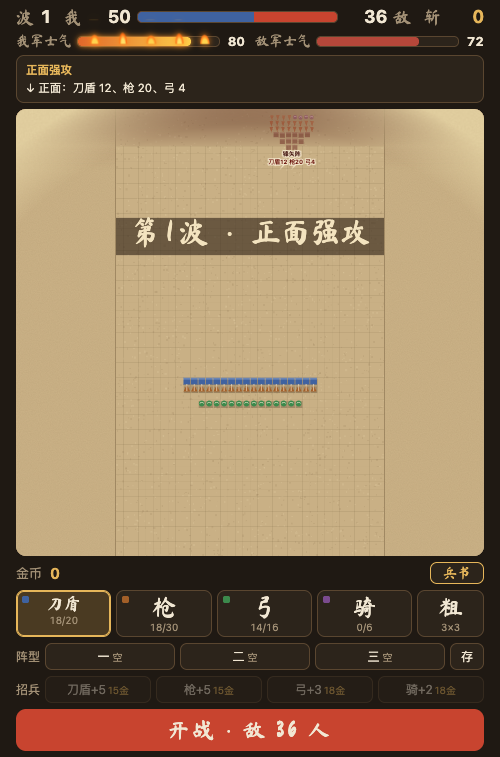
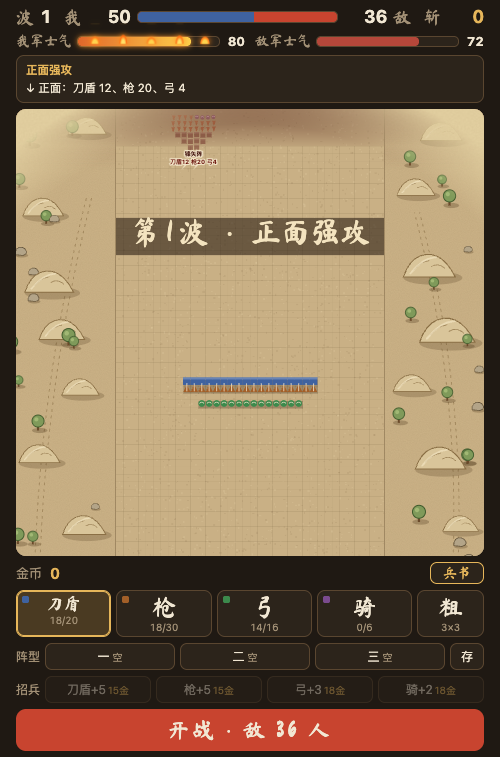
v36：沙盘外的沙地上加山包、树、石头、营帐和车辙；桌上地图改成毛边

diff --git a/index.html b/index.html
@@ -176,9 +176,9 @@ footer { display: flex; flex-direction: column; gap: 6px; }
   </div>
   <div id="intel" hidden></div>
   <div id="stage">
-    <div id="ground"><div id="terrain"></div><canvas id="cv"></canvas></div>
+    <div id="ground"><div id="terrain"><svg viewBox="-270 -270 900 1140" preserveAspectRatio="none" style="position:absolute;left:0;top:0;width:100%;height:100%" aria-hidden="true"><path d="M-110 640 Q-105 380 -40 120" fill="none" stroke="#8a6f45" stroke-width="1.4" stroke-dasharray="3 6" stroke-linecap="round" opacity=".55"/><path d="M-103 640 Q-98 380 -33 120" fill="none" stroke="#8a6f45" stroke-width="1.4" stroke-dasharray="3 6" stroke-linecap="round" opacity=".55"/><path d="M450 640 Q465 390 400 140" fill="none" stroke="#8a6f45" stroke-width="1.4" stroke-dasharray="3 6" stroke-linecap="round" opacity=".55"/><path d="M457 640 Q472 390 407 140" fill="none" stroke="#8a6f45" stroke-width="1.4" stroke-dasharray="3 6" stroke-linecap="round" opacity=".55"/><path d="M60 690 Q180 725 300 760" fill="none" stroke="#8a6f45" stroke-width="1.4" stroke-dasharray="3 6" stroke-linecap="round" opacity=".55"/><path d="M67 690 Q187 725 307 760" fill="none" stroke="#8a6f45" stroke-width="1.4" stroke-dasharray="3 6" stroke-linecap="round" opacity=".55"/><g transform="translate(20,-96) scale(1.20)"><ellipse cx="1" cy="1" rx="5" ry="1.6" fill="rgba(70,48,20,.3)"/><path d="M0 0 V-22" stroke="#5a4326" stroke-width="1.4" stroke-linecap="round"/><path d="M0 -22 h11 l-3 4 3 4 h-11 z" fill="#a33a28" stroke="#5a4326" stroke-width=".8"/></g><g transform="translate(180,-96) scale(1.20)"><ellipse cx="1" cy="1" rx="5" ry="1.6" fill="rgba(70,48,20,.3)"/><path d="M0 0 V-22" stroke="#5a4326" stroke-width="1.4" stroke-linecap="round"/><path d="M0 -22 h11 l-3 4 3 4 h-11 z" fill="#a33a28" stroke="#5a4326" stroke-width=".8"/></g><g transform="translate(340,-96) scale(1.20)"><ellipse cx="1" cy="1" rx="5" ry="1.6" fill="rgba(70,48,20,.3)"/><path d="M0 0 V-22" stroke="#5a4326" stroke-width="1.4" stroke-linecap="round"/><path d="M0 -22 h11 l-3 4 3 4 h-11 z" fill="#a33a28" stroke="#5a4326" stroke-width=".8"/></g><g transform="translate(93,-66) scale(1.05)"><ellipse cx="2" cy="10" rx="15" ry="4" fill="rgba(70,48,20,.3)"/><path d="M-13 9 L0 -10 L13 9 Z" fill="#efe2c2" stroke="#5a4326" stroke-width="1.2" stroke-linejoin="round"/><path d="M0 -10 L-4 9 L4 9 Z" fill="#c96a52"/><path d="M0 -10 V-19" stroke="#5a4326" stroke-width="1.2"/><path d="M0 -19 h8 l-2.5 3 2.5 3 h-8 z" fill="#a33a28" stroke="#5a4326" stroke-width=".8"/></g><g transform="translate(262,-63) scale(1.02)"><ellipse cx="2" cy="10" rx="15" ry="4" fill="rgba(70,48,20,.3)"/><path d="M-13 9 L0 -10 L13 9 Z" fill="#efe2c2" stroke="#5a4326" stroke-width="1.2" stroke-linejoin="round"/><path d="M0 -10 L-4 9 L4 9 Z" fill="#c96a52"/><path d="M0 -10 V-19" stroke="#5a4326" stroke-width="1.2"/><path d="M0 -19 h8 l-2.5 3 2.5 3 h-8 z" fill="#a33a28" stroke="#5a4326" stroke-width=".8"/></g><g transform="translate(157,-56) scale(1.13)"><ellipse cx="2" cy="10" rx="15" ry="4" fill="rgba(70,48,20,.3)"/><path d="M-13 9 L0 -10 L13 9 Z" fill="#efe2c2" stroke="#5a4326" stroke-width="1.2" stroke-linejoin="round"/><path d="M0 -10 L-4 9 L4 9 Z" fill="#c96a52"/><path d="M0 -10 V-19" stroke="#5a4326" stroke-width="1.2"/><path d="M0 -19 h8 l-2.5 3 2.5 3 h-8 z" fill="#a33a28" stroke="#5a4326" stroke-width=".8"/></g><g transform="translate(212,-53) scale(1.05)"><ellipse cx="2" cy="10" rx="15" ry="4" fill="rgba(70,48,20,.3)"/><path d="M-13 9 L0 -10 L13 9 Z" fill="#efe2c2" stroke="#5a4326" stroke-width="1.2" stroke-linejoin="round"/><path d="M0 -10 L-4 9 L4 9 Z" fill="#c96a52"/><path d="M0 -10 V-19" stroke="#5a4326" stroke-width="1.2"/><path d="M0 -19 h8 l-2.5 3 2.5 3 h-8 z" fill="#a33a28" stroke="#5a4326" stroke-width=".8"/></g><g transform="translate(320,-52) scale(0.97)"><ellipse cx="2" cy="10" rx="15" ry="4" fill="rgba(70,48,20,.3)"/><path d="M-13 9 L0 -10 L13 9 Z" fill="#efe2c2" stroke="#5a4326" stroke-width="1.2" stroke-linejoin="round"/><path d="M0 -10 L-4 9 L4 9 Z" fill="#c96a52"/><path d="M0 -10 V-19" stroke="#5a4326" stroke-width="1.2"/><path d="M0 -19 h8 l-2.5 3 2.5 3 h-8 z" fill="#a33a28" stroke="#5a4326" stroke-width=".8"/></g><g transform="translate(38,-49) scale(1.11)"><ellipse cx="2" cy="10" rx="15" ry="4" fill="rgba(70,48,20,.3)"/><path d="M-13 9 L0 -10 L13 9 Z" fill="#efe2c2" stroke="#5a4326" stroke-width="1.2" stroke-linejoin="round"/><path d="M0 -10 L-4 9 L4 9 Z" fill="#c96a52"/><path d="M0 -10 V-19" stroke="#5a4326" stroke-width="1.2"/><path d="M0 -19 h8 l-2.5 3 2.5 3 h-8 z" fill="#a33a28" stroke="#5a4326" stroke-width=".8"/></g><g transform="translate(426,-24) scale(1.02)"><ellipse cx="2" cy="8" rx="9" ry="3" fill="rgba(70,48,20,.28)"/><rect x="-1.2" y="1" width="2.4" height="7" fill="#6a4a2a"/><circle cx="0" cy="-3" r="7" fill="#7f9a5a" stroke="#3f5a2c" stroke-width="1.1"/><circle cx="-2" cy="-5" r="2.4" fill="#a9c07a" opacity=".8"/></g><g transform="translate(505,-17) scale(1.18)"><ellipse cx="2" cy="8" rx="9" ry="3" fill="rgba(70,48,20,.28)"/><rect x="-1.2" y="1" width="2.4" height="7" fill="#6a4a2a"/><circle cx="0" cy="-3" r="7" fill="#7f9a5a" stroke="#3f5a2c" stroke-width="1.1"/><circle cx="-2" cy="-5" r="2.4" fill="#a9c07a" opacity=".8"/></g><g transform="translate(-68,4) scale(0.99)"><ellipse cx="2" cy="8" rx="9" ry="3" fill="rgba(70,48,20,.28)"/><rect x="-1.2" y="1" width="2.4" height="7" fill="#6a4a2a"/><circle cx="0" cy="-3" r="7" fill="#7f9a5a" stroke="#3f5a2c" stroke-width="1.1"/><circle cx="-2" cy="-5" r="2.4" fill="#a9c07a" opacity=".8"/></g><g transform="translate(506,25) scale(1.18)"><ellipse cx="2" cy="8" rx="9" ry="3" fill="rgba(70,48,20,.28)"/><rect x="-1.2" y="1" width="2.4" height="7" fill="#6a4a2a"/><circle cx="0" cy="-3" r="7" fill="#7f9a5a" stroke="#3f5a2c" stroke-width="1.1"/><circle cx="-2" cy="-5" r="2.4" fill="#a9c07a" opacity=".8"/></g><g transform="translate(-39,28) scale(0.86)"><ellipse cx="4" cy="9" rx="34" ry="8" fill="rgba(70,48,20,.22)"/><path d="M-30 8 Q-22 -16 -4 -18 Q16 -20 30 8 Z" fill="#d9c59a" stroke="#8a6f45" stroke-width="1.2"/><path d="M-18 0 Q-10 -10 0 -11 M2 -4 Q10 -9 18 -2" fill="none" stroke="#8a6f45" stroke-width="1" stroke-linecap="round" opacity=".7"/><path d="M-22 4 Q-8 -14 8 -15" fill="none" stroke="#f1e3c0" stroke-width="2" stroke-linecap="round" opacity=".7"/></g><g transform="translate(-59,28) scale(1.15)"><ellipse cx="2" cy="8" rx="9" ry="3" fill="rgba(70,48,20,.28)"/><rect x="-1.2" y="1" width="2.4" height="7" fill="#6a4a2a"/><circle cx="0" cy="-3" r="7" fill="#7f9a5a" stroke="#3f5a2c" stroke-width="1.1"/><circle cx="-2" cy="-5" r="2.4" fill="#a9c07a" opacity=".8"/></g><g transform="translate(436,36) scale(0.93)"><ellipse cx="4" cy="9" rx="34" ry="8" fill="rgba(70,48,20,.22)"/><path d="M-30 8 Q-22 -16 -4 -18 Q16 -20 30 8 Z" fill="#d9c59a" stroke="#8a6f45" stroke-width="1.2"/><path d="M-18 0 Q-10 -10 0 -11 M2 -4 Q10 -9 18 -2" fill="none" stroke="#8a6f45" stroke-width="1" stroke-linecap="round" opacity=".7"/><path d="M-22 4 Q-8 -14 8 -15" fill="none" stroke="#f1e3c0" stroke-width="2" stroke-linecap="round" opacity=".7"/></g><g transform="translate(-116,40) scale(1.30)"><ellipse cx="2" cy="8" rx="9" ry="3" fill="rgba(70,48,20,.28)"/><rect x="-1.2" y="1" width="2.4" height="7" fill="#6a4a2a"/><circle cx="0" cy="-3" r="7" fill="#7f9a5a" stroke="#3f5a2c" stroke-width="1.1"/><circle cx="-2" cy="-5" r="2.4" fill="#a9c07a" opacity=".8"/></g><g transform="translate(394,68) scale(1.09)"><ellipse cx="2" cy="8" rx="9" ry="3" fill="rgba(70,48,20,.28)"/><rect x="-1.2" y="1" width="2.4" height="7" fill="#6a4a2a"/><circle cx="0" cy="-3" r="7" fill="#7f9a5a" stroke="#3f5a2c" stroke-width="1.1"/><circle cx="-2" cy="-5" r="2.4" fill="#a9c07a" opacity=".8"/></g><g transform="translate(437,98) scale(0.85)"><ellipse cx="2" cy="8" rx="9" ry="3" fill="rgba(70,48,20,.28)"/><rect x="-1.2" y="1" width="2.4" height="7" fill="#6a4a2a"/><circle cx="0" cy="-3" r="7" fill="#7f9a5a" stroke="#3f5a2c" stroke-width="1.1"/><circle cx="-2" cy="-5" r="2.4" fill="#a9c07a" opacity=".8"/></g><g transform="translate(-130,98) scale(1.06)"><ellipse cx="2" cy="8" rx="9" ry="3" fill="rgba(70,48,20,.28)"/><rect x="-1.2" y="1" width="2.4" height="7" fill="#6a4a2a"/><circle cx="0" cy="-3" r="7" fill="#7f9a5a" stroke="#3f5a2c" stroke-width="1.1"/><circle cx="-2" cy="-5" r="2.4" fill="#a9c07a" opacity=".8"/></g><g transform="translate(402,110) scale(0.85)"><ellipse cx="4" cy="9" rx="34" ry="8" fill="rgba(70,48,20,.22)"/><path d="M-30 8 Q-22 -16 -4 -18 Q16 -20 30 8 Z" fill="#d9c59a" stroke="#8a6f45" stroke-width="1.2"/><path d="M-18 0 Q-10 -10 0 -11 M2 -4 Q10 -9 18 -2" fill="none" stroke="#8a6f45" stroke-width="1" stroke-linecap="round" opacity=".7"/><path d="M-22 4 Q-8 -14 8 -15" fill="none" stroke="#f1e3c0" stroke-width="2" stroke-linecap="round" opacity=".7"/></g><g transform="translate(447,121) scale(1.17)"><ellipse cx="2" cy="8" rx="9" ry="3" fill="rgba(70,48,20,.28)"/><rect x="-1.2" y="1" width="2.4" height="7" fill="#6a4a2a"/><circle cx="0" cy="-3" r="7" fill="#7f9a5a" stroke="#3f5a2c" stroke-width="1.1"/><circle cx="-2" cy="-5" r="2.4" fill="#a9c07a" opacity=".8"/></g><g transform="translate(-148,131) scale(0.97)"><ellipse cx="2" cy="8" rx="9" ry="3" fill="rgba(70,48,20,.28)"/><rect x="-1.2" y="1" width="2.4" height="7" fill="#6a4a2a"/><circle cx="0" cy="-3" r="7" fill="#7f9a5a" stroke="#3f5a2c" stroke-width="1.1"/><circle cx="-2" cy="-5" r="2.4" fill="#a9c07a" opacity=".8"/></g><g transform="translate(-98,137) scale(0.91)"><ellipse cx="4" cy="9" rx="34" ry="8" fill="rgba(70,48,20,.22)"/><path d="M-30 8 Q-22 -16 -4 -18 Q16 -20 30 8 Z" fill="#d9c59a" stroke="#8a6f45" stroke-width="1.2"/><path d="M-18 0 Q-10 -10 0 -11 M2 -4 Q10 -9 18 -2" fill="none" stroke="#8a6f45" stroke-width="1" stroke-linecap="round" opacity=".7"/><path d="M-22 4 Q-8 -14 8 -15" fill="none" stroke="#f1e3c0" stroke-width="2" stroke-linecap="round" opacity=".7"/></g><g transform="translate(-94,147) scale(0.99)"><ellipse cx="2" cy="8" rx="9" ry="3" fill="rgba(70,48,20,.28)"/><rect x="-1.2" y="1" width="2.4" height="7" fill="#6a4a2a"/><circle cx="0" cy="-3" r="7" fill="#7f9a5a" stroke="#3f5a2c" stroke-width="1.1"/><circle cx="-2" cy="-5" r="2.4" fill="#a9c07a" opacity=".8"/></g><g transform="translate(-83,148) scale(0.92)"><ellipse cx="1" cy="5" rx="8" ry="2.6" fill="rgba(70,48,20,.26)"/><path d="M-7 4 Q-8 -3 -2 -5 Q5 -6 7 0 Q8 4 2 5 Z" fill="#b3a488" stroke="#6a5a40" stroke-width="1"/></g><g transform="translate(472,189) scale(0.80)"><ellipse cx="1" cy="5" rx="8" ry="2.6" fill="rgba(70,48,20,.26)"/><path d="M-7 4 Q-8 -3 -2 -5 Q5 -6 7 0 Q8 4 2 5 Z" fill="#b3a488" stroke="#6a5a40" stroke-width="1"/></g><g transform="translate(-128,192) scale(1.08)"><ellipse cx="1" cy="5" rx="8" ry="2.6" fill="rgba(70,48,20,.26)"/><path d="M-7 4 Q-8 -3 -2 -5 Q5 -6 7 0 Q8 4 2 5 Z" fill="#b3a488" stroke="#6a5a40" stroke-width="1"/></g><g transform="translate(420,217) scale(1.16)"><ellipse cx="4" cy="9" rx="34" ry="8" fill="rgba(70,48,20,.22)"/><path d="M-30 8 Q-22 -16 -4 -18 Q16 -20 30 8 Z" fill="#d9c59a" stroke="#8a6f45" stroke-width="1.2"/><path d="M-18 0 Q-10 -10 0 -11 M2 -4 Q10 -9 18 -2" fill="none" stroke="#8a6f45" stroke-width="1" stroke-linecap="round" opacity=".7"/><path d="M-22 4 Q-8 -14 8 -15" fill="none" stroke="#f1e3c0" stroke-width="2" stroke-linecap="round" opacity=".7"/></g><g transform="translate(-111,219) scale(0.92)"><ellipse cx="1" cy="5" rx="8" ry="2.6" fill="rgba(70,48,20,.26)"/><path d="M-7 4 Q-8 -3 -2 -5 Q5 -6 7 0 Q8 4 2 5 Z" fill="#b3a488" stroke="#6a5a40" stroke-width="1"/></g><g transform="translate(426,236) scale(0.91)"><ellipse cx="2" cy="8" rx="9" ry="3" fill="rgba(70,48,20,.28)"/><rect x="-1.2" y="1" width="2.4" height="7" fill="#6a4a2a"/><circle cx="0" cy="-3" r="7" fill="#7f9a5a" stroke="#3f5a2c" stroke-width="1.1"/><circle cx="-2" cy="-5" r="2.4" fill="#a9c07a" opacity=".8"/></g><g transform="translate(-90,238) scale(1.09)"><ellipse cx="4" cy="9" rx="34" ry="8" fill="rgba(70,48,20,.22)"/><path d="M-30 8 Q-22 -16 -4 -18 Q16 -20 30 8 Z" fill="#d9c59a" stroke="#8a6f45" stroke-width="1.2"/><path d="M-18 0 Q-10 -10 0 -11 M2 -4 Q10 -9 18 -2" fill="none" stroke="#8a6f45" stroke-width="1" stroke-linecap="round" opacity=".7"/><path d="M-22 4 Q-8 -14 8 -15" fill="none" stroke="#f1e3c0" stroke-width="2" stroke-linecap="round" opacity=".7"/></g><g transform="translate(-111,254) scale(1.03)"><ellipse cx="1" cy="5" rx="8" ry="2.6" fill="rgba(70,48,20,.26)"/><path d="M-7 4 Q-8 -3 -2 -5 Q5 -6 7 0 Q8 4 2 5 Z" fill="#b3a488" stroke="#6a5a40" stroke-width="1"/></g><g transform="translate(395,277) scale(1.02)"><ellipse cx="2" cy="8" rx="9" ry="3" fill="rgba(70,48,20,.28)"/><rect x="-1.2" y="1" width="2.4" height="7" fill="#6a4a2a"/><circle cx="0" cy="-3" r="7" fill="#7f9a5a" stroke="#3f5a2c" stroke-width="1.1"/><circle cx="-2" cy="-5" r="2.4" fill="#a9c07a" opacity=".8"/></g><g transform="translate(-73,302) scale(1.02)"><ellipse cx="4" cy="9" rx="34" ry="8" fill="rgba(70,48,20,.22)"/><path d="M-30 8 Q-22 -16 -4 -18 Q16 -20 30 8 Z" fill="#d9c59a" stroke="#8a6f45" stroke-width="1.2"/><path d="M-18 0 Q-10 -10 0 -11 M2 -4 Q10 -9 18 -2" fill="none" stroke="#8a6f45" stroke-width="1" stroke-linecap="round" opacity=".7"/><path d="M-22 4 Q-8 -14 8 -15" fill="none" stroke="#f1e3c0" stroke-width="2" stroke-linecap="round" opacity=".7"/></g><g transform="translate(444,304) scale(1.24)"><ellipse cx="4" cy="9" rx="34" ry="8" fill="rgba(70,48,20,.22)"/><path d="M-30 8 Q-22 -16 -4 -18 Q16 -20 30 8 Z" fill="#d9c59a" stroke="#8a6f45" stroke-width="1.2"/><path d="M-18 0 Q-10 -10 0 -11 M2 -4 Q10 -9 18 -2" fill="none" stroke="#8a6f45" stroke-width="1" stroke-linecap="round" opacity=".7"/><path d="M-22 4 Q-8 -14 8 -15" fill="none" stroke="#f1e3c0" stroke-width="2" stroke-linecap="round" opacity=".7"/></g><g transform="translate(-64,308) scale(1.25)"><ellipse cx="2" cy="8" rx="9" ry="3" fill="rgba(70,48,20,.28)"/><rect x="-1.2" y="1" width="2.4" height="7" fill="#6a4a2a"/><circle cx="0" cy="-3" r="7" fill="#7f9a5a" stroke="#3f5a2c" stroke-width="1.1"/><circle cx="-2" cy="-5" r="2.4" fill="#a9c07a" opacity=".8"/></g><g transform="translate(471,312) scale(0.90)"><ellipse cx="2" cy="8" rx="9" ry="3" fill="rgba(70,48,20,.28)"/><rect x="-1.2" y="1" width="2.4" height="7" fill="#6a4a2a"/><circle cx="0" cy="-3" r="7" fill="#7f9a5a" stroke="#3f5a2c" stroke-width="1.1"/><circle cx="-2" cy="-5" r="2.4" fill="#a9c07a" opacity=".8"/></g><g transform="translate(-57,315) scale(0.91)"><ellipse cx="2" cy="8" rx="9" ry="3" fill="rgba(70,48,20,.28)"/><rect x="-1.2" y="1" width="2.4" height="7" fill="#6a4a2a"/><circle cx="0" cy="-3" r="7" fill="#7f9a5a" stroke="#3f5a2c" stroke-width="1.1"/><circle cx="-2" cy="-5" r="2.4" fill="#a9c07a" opacity=".8"/></g><g transform="translate(-141,317) scale(1.25)"><ellipse cx="2" cy="8" rx="9" ry="3" fill="rgba(70,48,20,.28)"/><rect x="-1.2" y="1" width="2.4" height="7" fill="#6a4a2a"/><circle cx="0" cy="-3" r="7" fill="#7f9a5a" stroke="#3f5a2c" stroke-width="1.1"/><circle cx="-2" cy="-5" r="2.4" fill="#a9c07a" opacity=".8"/></g><g transform="translate(487,350) scale(0.88)"><ellipse cx="1" cy="5" rx="8" ry="2.6" fill="rgba(70,48,20,.26)"/><path d="M-7 4 Q-8 -3 -2 -5 Q5 -6 7 0 Q8 4 2 5 Z" fill="#b3a488" stroke="#6a5a40" stroke-width="1"/></g><g transform="translate(-131,367) scale(0.83)"><ellipse cx="2" cy="8" rx="9" ry="3" fill="rgba(70,48,20,.28)"/><rect x="-1.2" y="1" width="2.4" height="7" fill="#6a4a2a"/><circle cx="0" cy="-3" r="7" fill="#7f9a5a" stroke="#3f5a2c" stroke-width="1.1"/><circle cx="-2" cy="-5" r="2.4" fill="#a9c07a" opacity=".8"/></g><g transform="translate(397,373) scale(0.86)"><ellipse cx="4" cy="9" rx="34" ry="8" fill="rgba(70,48,20,.22)"/><path d="M-30 8 Q-22 -16 -4 -18 Q16 -20 30 8 Z" fill="#d9c59a" stroke="#8a6f45" stroke-width="1.2"/><path d="M-18 0 Q-10 -10 0 -11 M2 -4 Q10 -9 18 -2" fill="none" stroke="#8a6f45" stroke-width="1" stroke-linecap="round" opacity=".7"/><path d="M-22 4 Q-8 -14 8 -15" fill="none" stroke="#f1e3c0" stroke-width="2" stroke-linecap="round" opacity=".7"/></g><g transform="translate(-48,378) scale(0.84)"><ellipse cx="4" cy="9" rx="34" ry="8" fill="rgba(70,48,20,.22)"/><path d="M-30 8 Q-22 -16 -4 -18 Q16 -20 30 8 Z" fill="#d9c59a" stroke="#8a6f45" stroke-width="1.2"/><path d="M-18 0 Q-10 -10 0 -11 M2 -4 Q10 -9 18 -2" fill="none" stroke="#8a6f45" stroke-width="1" stroke-linecap="round" opacity=".7"/><path d="M-22 4 Q-8 -14 8 -15" fill="none" stroke="#f1e3c0" stroke-width="2" stroke-linecap="round" opacity=".7"/></g><g transform="translate(444,384) scale(1.04)"><ellipse cx="2" cy="8" rx="9" ry="3" fill="rgba(70,48,20,.28)"/><rect x="-1.2" y="1" width="2.4" height="7" fill="#6a4a2a"/><circle cx="0" cy="-3" r="7" fill="#7f9a5a" stroke="#3f5a2c" stroke-width="1.1"/><circle cx="-2" cy="-5" r="2.4" fill="#a9c07a" opacity=".8"/></g><g transform="translate(485,400) scale(1.09)"><ellipse cx="1" cy="5" rx="8" ry="2.6" fill="rgba(70,48,20,.26)"/><path d="M-7 4 Q-8 -3 -2 -5 Q5 -6 7 0 Q8 4 2 5 Z" fill="#b3a488" stroke="#6a5a40" stroke-width="1"/></g><g transform="translate(379,413) scale(1.11)"><ellipse cx="2" cy="8" rx="9" ry="3" fill="rgba(70,48,20,.28)"/><rect x="-1.2" y="1" width="2.4" height="7" fill="#6a4a2a"/><circle cx="0" cy="-3" r="7" fill="#7f9a5a" stroke="#3f5a2c" stroke-width="1.1"/><circle cx="-2" cy="-5" r="2.4" fill="#a9c07a" opacity=".8"/></g><g transform="translate(-105,423) scale(1.15)"><ellipse cx="2" cy="8" rx="9" ry="3" fill="rgba(70,48,20,.28)"/><rect x="-1.2" y="1" width="2.4" height="7" fill="#6a4a2a"/><circle cx="0" cy="-3" r="7" fill="#7f9a5a" stroke="#3f5a2c" stroke-width="1.1"/><circle cx="-2" cy="-5" r="2.4" fill="#a9c07a" opacity=".8"/></g><g transform="translate(471,468) scale(1.11)"><ellipse cx="2" cy="8" rx="9" ry="3" fill="rgba(70,48,20,.28)"/><rect x="-1.2" y="1" width="2.4" height="7" fill="#6a4a2a"/><circle cx="0" cy="-3" r="7" fill="#7f9a5a" stroke="#3f5a2c" stroke-width="1.1"/><circle cx="-2" cy="-5" r="2.4" fill="#a9c07a" opacity=".8"/></g><g transform="translate(472,468) scale(1.04)"><ellipse cx="2" cy="8" rx="9" ry="3" fill="rgba(70,48,20,.28)"/><rect x="-1.2" y="1" width="2.4" height="7" fill="#6a4a2a"/><circle cx="0" cy="-3" r="7" fill="#7f9a5a" stroke="#3f5a2c" stroke-width="1.1"/><circle cx="-2" cy="-5" r="2.4" fill="#a9c07a" opacity=".8"/></g><g transform="translate(-103,468) scale(0.92)"><ellipse cx="4" cy="9" rx="34" ry="8" fill="rgba(70,48,20,.22)"/><path d="M-30 8 Q-22 -16 -4 -18 Q16 -20 30 8 Z" fill="#d9c59a" stroke="#8a6f45" stroke-width="1.2"/><path d="M-18 0 Q-10 -10 0 -11 M2 -4 Q10 -9 18 -2" fill="none" stroke="#8a6f45" stroke-width="1" stroke-linecap="round" opacity=".7"/><path d="M-22 4 Q-8 -14 8 -15" fill="none" stroke="#f1e3c0" stroke-width="2" stroke-linecap="round" opacity=".7"/></g><g transform="translate(435,475) scale(1.13)"><ellipse cx="4" cy="9" rx="34" ry="8" fill="rgba(70,48,20,.22)"/><path d="M-30 8 Q-22 -16 -4 -18 Q16 -20 30 8 Z" fill="#d9c59a" stroke="#8a6f45" stroke-width="1.2"/><path d="M-18 0 Q-10 -10 0 -11 M2 -4 Q10 -9 18 -2" fill="none" stroke="#8a6f45" stroke-width="1" stroke-linecap="round" opacity=".7"/><path d="M-22 4 Q-8 -14 8 -15" fill="none" stroke="#f1e3c0" stroke-width="2" stroke-linecap="round" opacity=".7"/></g><g transform="translate(-28,534) scale(0.79)"><ellipse cx="1" cy="5" rx="8" ry="2.6" fill="rgba(70,48,20,.26)"/><path d="M-7 4 Q-8 -3 -2 -5 Q5 -6 7 0 Q8 4 2 5 Z" fill="#b3a488" stroke="#6a5a40" stroke-width="1"/></g><g transform="translate(406,545) scale(1.24)"><ellipse cx="2" cy="8" rx="9" ry="3" fill="rgba(70,48,20,.28)"/><rect x="-1.2" y="1" width="2.4" height="7" fill="#6a4a2a"/><circle cx="0" cy="-3" r="7" fill="#7f9a5a" stroke="#3f5a2c" stroke-width="1.1"/><circle cx="-2" cy="-5" r="2.4" fill="#a9c07a" opacity=".8"/></g><g transform="translate(462,561) scale(0.80)"><ellipse cx="4" cy="9" rx="34" ry="8" fill="rgba(70,48,20,.22)"/><path d="M-30 8 Q-22 -16 -4 -18 Q16 -20 30 8 Z" fill="#d9c59a" stroke="#8a6f45" stroke-width="1.2"/><path d="M-18 0 Q-10 -10 0 -11 M2 -4 Q10 -9 18 -2" fill="none" stroke="#8a6f45" stroke-width="1" stroke-linecap="round" opacity=".7"/><path d="M-22 4 Q-8 -14 8 -15" fill="none" stroke="#f1e3c0" stroke-width="2" stroke-linecap="round" opacity=".7"/></g><g transform="translate(-43,564) scale(0.97)"><ellipse cx="4" cy="9" rx="34" ry="8" fill="rgba(70,48,20,.22)"/><path d="M-30 8 Q-22 -16 -4 -18 Q16 -20 30 8 Z" fill="#d9c59a" stroke="#8a6f45" stroke-width="1.2"/><path d="M-18 0 Q-10 -10 0 -11 M2 -4 Q10 -9 18 -2" fill="none" stroke="#8a6f45" stroke-width="1" stroke-linecap="round" opacity=".7"/><path d="M-22 4 Q-8 -14 8 -15" fill="none" stroke="#f1e3c0" stroke-width="2" stroke-linecap="round" opacity=".7"/></g><g transform="translate(-132,575) scale(1.18)"><ellipse cx="2" cy="8" rx="9" ry="3" fill="rgba(70,48,20,.28)"/><rect x="-1.2" y="1" width="2.4" height="7" fill="#6a4a2a"/><circle cx="0" cy="-3" r="7" fill="#7f9a5a" stroke="#3f5a2c" stroke-width="1.1"/><circle cx="-2" cy="-5" r="2.4" fill="#a9c07a" opacity=".8"/></g><g transform="translate(-112,577) scale(0.98)"><ellipse cx="2" cy="8" rx="9" ry="3" fill="rgba(70,48,20,.28)"/><rect x="-1.2" y="1" width="2.4" height="7" fill="#6a4a2a"/><circle cx="0" cy="-3" r="7" fill="#7f9a5a" stroke="#3f5a2c" stroke-width="1.1"/><circle cx="-2" cy="-5" r="2.4" fill="#a9c07a" opacity=".8"/></g><g transform="translate(461,582) scale(1.16)"><ellipse cx="1" cy="5" rx="8" ry="2.6" fill="rgba(70,48,20,.26)"/><path d="M-7 4 Q-8 -3 -2 -5 Q5 -6 7 0 Q8 4 2 5 Z" fill="#b3a488" stroke="#6a5a40" stroke-width="1"/></g><g transform="translate(473,603) scale(0.96)"><ellipse cx="1" cy="5" rx="8" ry="2.6" fill="rgba(70,48,20,.26)"/><path d="M-7 4 Q-8 -3 -2 -5 Q5 -6 7 0 Q8 4 2 5 Z" fill="#b3a488" stroke="#6a5a40" stroke-width="1"/></g><g transform="translate(-74,622) scale(1.16)"><ellipse cx="2" cy="8" rx="9" ry="3" fill="rgba(70,48,20,.28)"/><rect x="-1.2" y="1" width="2.4" height="7" fill="#6a4a2a"/><circle cx="0" cy="-3" r="7" fill="#7f9a5a" stroke="#3f5a2c" stroke-width="1.1"/><circle cx="-2" cy="-5" r="2.4" fill="#a9c07a" opacity=".8"/></g><g transform="translate(-85,622) scale(0.90)"><ellipse cx="2" cy="8" rx="9" ry="3" fill="rgba(70,48,20,.28)"/><rect x="-1.2" y="1" width="2.4" height="7" fill="#6a4a2a"/><circle cx="0" cy="-3" r="7" fill="#7f9a5a" stroke="#3f5a2c" stroke-width="1.1"/><circle cx="-2" cy="-5" r="2.4" fill="#a9c07a" opacity=".8"/></g><g transform="translate(-107,624) scale(1.08)"><ellipse cx="1" cy="5" rx="8" ry="2.6" fill="rgba(70,48,20,.26)"/><path d="M-7 4 Q-8 -3 -2 -5 Q5 -6 7 0 Q8 4 2 5 Z" fill="#b3a488" stroke="#6a5a40" stroke-width="1"/></g><g transform="translate(-39,625) scale(1.05)"><ellipse cx="2" cy="8" rx="9" ry="3" fill="rgba(70,48,20,.28)"/><rect x="-1.2" y="1" width="2.4" height="7" fill="#6a4a2a"/><circle cx="0" cy="-3" r="7" fill="#7f9a5a" stroke="#3f5a2c" stroke-width="1.1"/><circle cx="-2" cy="-5" r="2.4" fill="#a9c07a" opacity=".8"/></g><g transform="translate(401,628) scale(0.85)"><ellipse cx="1" cy="5" rx="8" ry="2.6" fill="rgba(70,48,20,.26)"/><path d="M-7 4 Q-8 -3 -2 -5 Q5 -6 7 0 Q8 4 2 5 Z" fill="#b3a488" stroke="#6a5a40" stroke-width="1"/></g><g transform="translate(436,639) scale(0.84)"><ellipse cx="2" cy="8" rx="9" ry="3" fill="rgba(70,48,20,.28)"/><rect x="-1.2" y="1" width="2.4" height="7" fill="#6a4a2a"/><circle cx="0" cy="-3" r="7" fill="#7f9a5a" stroke="#3f5a2c" stroke-width="1.1"/><circle cx="-2" cy="-5" r="2.4" fill="#a9c07a" opacity=".8"/></g><g transform="translate(95,647) scale(1.11)"><ellipse cx="2" cy="10" rx="15" ry="4" fill="rgba(70,48,20,.3)"/><path d="M-13 9 L0 -10 L13 9 Z" fill="#efe2c2" stroke="#5a4326" stroke-width="1.2" stroke-linejoin="round"/><path d="M0 -10 L-4 9 L4 9 Z" fill="#6f8cc4"/><path d="M0 -10 V-19" stroke="#5a4326" stroke-width="1.2"/><path d="M0 -19 h8 l-2.5 3 2.5 3 h-8 z" fill="#3f62a0" stroke="#5a4326" stroke-width=".8"/></g><g transform="translate(208,651) scale(1.12)"><ellipse cx="2" cy="10" rx="15" ry="4" fill="rgba(70,48,20,.3)"/><path d="M-13 9 L0 -10 L13 9 Z" fill="#efe2c2" stroke="#5a4326" stroke-width="1.2" stroke-linejoin="round"/><path d="M0 -10 L-4 9 L4 9 Z" fill="#6f8cc4"/><path d="M0 -10 V-19" stroke="#5a4326" stroke-width="1.2"/><path d="M0 -19 h8 l-2.5 3 2.5 3 h-8 z" fill="#3f62a0" stroke="#5a4326" stroke-width=".8"/></g><g transform="translate(148,651) scale(1.10)"><ellipse cx="2" cy="10" rx="15" ry="4" fill="rgba(70,48,20,.3)"/><path d="M-13 9 L0 -10 L13 9 Z" fill="#efe2c2" stroke="#5a4326" stroke-width="1.2" stroke-linejoin="round"/><path d="M0 -10 L-4 9 L4 9 Z" fill="#6f8cc4"/><path d="M0 -10 V-19" stroke="#5a4326" stroke-width="1.2"/><path d="M0 -19 h8 l-2.5 3 2.5 3 h-8 z" fill="#3f62a0" stroke="#5a4326" stroke-width=".8"/></g><g transform="translate(263,653) scale(1.14)"><ellipse cx="2" cy="10" rx="15" ry="4" fill="rgba(70,48,20,.3)"/><path d="M-13 9 L0 -10 L13 9 Z" fill="#efe2c2" stroke="#5a4326" stroke-width="1.2" stroke-linejoin="round"/><path d="M0 -10 L-4 9 L4 9 Z" fill="#6f8cc4"/><path d="M0 -10 V-19" stroke="#5a4326" stroke-width="1.2"/><path d="M0 -19 h8 l-2.5 3 2.5 3 h-8 z" fill="#3f62a0" stroke="#5a4326" stroke-width=".8"/></g><g transform="translate(455,653) scale(0.89)"><ellipse cx="2" cy="8" rx="9" ry="3" fill="rgba(70,48,20,.28)"/><rect x="-1.2" y="1" width="2.4" height="7" fill="#6a4a2a"/><circle cx="0" cy="-3" r="7" fill="#7f9a5a" stroke="#3f5a2c" stroke-width="1.1"/><circle cx="-2" cy="-5" r="2.4" fill="#a9c07a" opacity=".8"/></g><g transform="translate(33,662) scale(0.97)"><ellipse cx="2" cy="10" rx="15" ry="4" fill="rgba(70,48,20,.3)"/><path d="M-13 9 L0 -10 L13 9 Z" fill="#efe2c2" stroke="#5a4326" stroke-width="1.2" stroke-linejoin="round"/><path d="M0 -10 L-4 9 L4 9 Z" fill="#6f8cc4"/><path d="M0 -10 V-19" stroke="#5a4326" stroke-width="1.2"/><path d="M0 -19 h8 l-2.5 3 2.5 3 h-8 z" fill="#3f62a0" stroke="#5a4326" stroke-width=".8"/></g><g transform="translate(325,662) scale(0.96)"><ellipse cx="2" cy="10" rx="15" ry="4" fill="rgba(70,48,20,.3)"/><path d="M-13 9 L0 -10 L13 9 Z" fill="#efe2c2" stroke="#5a4326" stroke-width="1.2" stroke-linejoin="round"/><path d="M0 -10 L-4 9 L4 9 Z" fill="#6f8cc4"/><path d="M0 -10 V-19" stroke="#5a4326" stroke-width="1.2"/><path d="M0 -19 h8 l-2.5 3 2.5 3 h-8 z" fill="#3f62a0" stroke="#5a4326" stroke-width=".8"/></g><g transform="translate(16,700) scale(1.20)"><ellipse cx="1" cy="1" rx="5" ry="1.6" fill="rgba(70,48,20,.3)"/><path d="M0 0 V-22" stroke="#5a4326" stroke-width="1.4" stroke-linecap="round"/><path d="M0 -22 h11 l-3 4 3 4 h-11 z" fill="#3f62a0" stroke="#5a4326" stroke-width=".8"/></g><g transform="translate(180,700) scale(1.20)"><ellipse cx="1" cy="1" rx="5" ry="1.6" fill="rgba(70,48,20,.3)"/><path d="M0 0 V-22" stroke="#5a4326" stroke-width="1.4" stroke-linecap="round"/><path d="M0 -22 h11 l-3 4 3 4 h-11 z" fill="#3f62a0" stroke="#5a4326" stroke-width=".8"/></g><g transform="translate(344,700) scale(1.20)"><ellipse cx="1" cy="1" rx="5" ry="1.6" fill="rgba(70,48,20,.3)"/><path d="M0 0 V-22" stroke="#5a4326" stroke-width="1.4" stroke-linecap="round"/><path d="M0 -22 h11 l-3 4 3 4 h-11 z" fill="#3f62a0" stroke="#5a4326" stroke-width=".8"/></g><g transform="translate(330,716) scale(1.10)"><ellipse cx="2" cy="8" rx="9" ry="3" fill="rgba(70,48,20,.28)"/><rect x="-1.2" y="1" width="2.4" height="7" fill="#6a4a2a"/><circle cx="0" cy="-3" r="7" fill="#7f9a5a" stroke="#3f5a2c" stroke-width="1.1"/><circle cx="-2" cy="-5" r="2.4" fill="#a9c07a" opacity=".8"/></g><g transform="translate(226,726) scale(1.10)"><ellipse cx="2" cy="8" rx="9" ry="3" fill="rgba(70,48,20,.28)"/><rect x="-1.2" y="1" width="2.4" height="7" fill="#6a4a2a"/><circle cx="0" cy="-3" r="7" fill="#7f9a5a" stroke="#3f5a2c" stroke-width="1.1"/><circle cx="-2" cy="-5" r="2.4" fill="#a9c07a" opacity=".8"/></g><g transform="translate(338,736) scale(1.10)"><ellipse cx="2" cy="8" rx="9" ry="3" fill="rgba(70,48,20,.28)"/><rect x="-1.2" y="1" width="2.4" height="7" fill="#6a4a2a"/><circle cx="0" cy="-3" r="7" fill="#7f9a5a" stroke="#3f5a2c" stroke-width="1.1"/><circle cx="-2" cy="-5" r="2.4" fill="#a9c07a" opacity=".8"/></g><g transform="translate(117,746) scale(1.10)"><ellipse cx="2" cy="8" rx="9" ry="3" fill="rgba(70,48,20,.28)"/><rect x="-1.2" y="1" width="2.4" height="7" fill="#6a4a2a"/><circle cx="0" cy="-3" r="7" fill="#7f9a5a" stroke="#3f5a2c" stroke-width="1.1"/><circle cx="-2" cy="-5" r="2.4" fill="#a9c07a" opacity=".8"/></g><g transform="translate(315,756) scale(1.10)"><ellipse cx="2" cy="8" rx="9" ry="3" fill="rgba(70,48,20,.28)"/><rect x="-1.2" y="1" width="2.4" height="7" fill="#6a4a2a"/><circle cx="0" cy="-3" r="7" fill="#7f9a5a" stroke="#3f5a2c" stroke-width="1.1"/><circle cx="-2" cy="-5" r="2.4" fill="#a9c07a" opacity=".8"/></g></svg></div><canvas id="cv"></canvas></div>
 <div id="desk" aria-hidden="true"><svg viewBox="0 0 390 700" preserveAspectRatio="xMidYMid slice" style="position:absolute;left:3%;top:2.5%;width:94%;height:95%" aria-hidden="true"><defs><filter id="mp"><feTurbulence type="fractalNoise" baseFrequency=".8" numOctaves="2" seed="7"/><feColorMatrix values="0 0 0 0 .45  0 0 0 0 .32  0 0 0 0 .16  0 0 0 .2 -.05"/></filter></defs>
-<g transform="rotate(-2.2 195 350)"><rect x="-14" y="10" width="418" height="660" rx="4" fill="#E2CFA0"/><rect x="-14" y="10" width="418" height="660" rx="4" filter="url(#mp)"/><rect x="-8" y="16" width="406" height="648" fill="none" stroke="#8A6A3A" stroke-width="1.2" stroke-dasharray="2 5"/>
+<g transform="rotate(-2.2 195 350)"><path d="M-14.0 6.6 L1.0 11.3 L13.8 7.2 L29.8 13.1 L42.9 10.1 L53.2 5.0 L64.8 10.9 L73.4 12.9 L83.6 7.3 L91.8 15.0 L107.3 13.8 L121.5 5.3 L132.7 10.0 L141.7 14.5 L153.4 6.5 L169.7 6.2 L187.1 9.5 L200.7 8.4 L213.5 6.9 L221.7 13.7 L231.9 12.8 L241.9 14.7 L259.0 12.5 L274.7 10.8 L290.1 6.2 L302.9 13.3 L312.8 14.2 L329.8 9.1 L341.4 9.5 L353.2 14.9 L365.0 5.3 L373.8 12.2 L391.9 10.0 L404.5 10.0 L401.2 25.6 L404.6 39.7 L400.8 54.0 L402.5 63.6 L402.5 81.0 L402.1 95.0 L399.7 103.9 L406.8 120.1 L405.8 131.8 L408.0 146.7 L403.1 164.4 L408.6 182.5 L407.8 196.5 L402.8 209.4 L407.8 219.7 L399.7 229.2 L406.7 245.4 L407.4 258.2 L401.6 266.6 L403.2 277.4 L399.7 287.0 L408.0 298.3 L406.5 316.3 L401.5 329.1 L404.3 346.9 L399.3 362.2 L407.4 372.2 L407.8 388.3 L403.3 402.4 L407.5 416.2 L404.3 427.2 L406.7 437.9 L405.9 445.8 L399.2 463.5 L405.4 477.5 L404.8 494.1 L403.1 504.6 L408.1 522.4 L399.9 531.6 L399.3 540.4 L400.4 552.8 L405.6 569.6 L404.4 578.7 L403.9 589.9 L400.7 600.0 L402.8 609.7 L404.5 624.9 L406.1 633.2 L406.7 650.1 L399.1 666.1 L404.0 665.6 L388.3 666.8 L373.1 667.5 L358.0 668.1 L349.8 668.9 L338.8 674.0 L327.9 670.0 L314.4 674.5 L305.5 671.0 L292.5 672.3 L274.6 668.1 L259.5 670.3 L245.9 665.6 L229.6 674.8 L218.1 668.2 L200.0 666.1 L191.4 665.7 L175.1 672.6 L162.7 671.2 L154.7 671.4 L142.3 670.2 L130.4 669.0 L120.3 665.5 L108.0 667.5 L92.8 673.2 L77.5 669.6 L67.3 668.9 L54.4 671.3 L36.6 665.9 L23.8 669.9 L8.5 673.9 L-7.4 671.3 L-12.3 670.0 L-12.0 653.3 L-16.5 638.4 L-15.1 621.0 L-10.8 606.8 L-9.1 589.0 L-15.9 581.1 L-15.1 570.1 L-13.5 560.8 L-16.0 552.2 L-11.6 534.6 L-17.9 521.9 L-12.0 504.2 L-15.6 494.3 L-12.2 479.8 L-9.5 469.3 L-16.5 458.1 L-17.5 441.5 L-17.0 426.7 L-16.2 412.6 L-9.6 400.9 L-14.6 388.2 L-16.2 374.0 L-15.2 364.4 L-17.1 353.8 L-18.7 336.0 L-9.7 319.8 L-18.8 304.6 L-18.6 291.6 L-12.0 277.5 L-18.9 267.2 L-18.1 253.7 L-14.5 242.7 L-15.3 225.6 L-11.1 216.4 L-13.7 200.1 L-17.1 191.7 L-13.5 179.8 L-11.0 169.6 L-9.7 153.0 L-18.8 136.1 L-18.2 122.2 L-11.5 105.0 L-17.1 89.3 L-10.8 80.9 L-12.8 66.8 L-11.0 54.1 L-16.3 42.8 L-16.0 31.3 L-10.1 17.0 Z" fill="rgba(0,0,0,.28)" transform="translate(3,5)"/><path d="M-14.0 6.6 L1.0 11.3 L13.8 7.2 L29.8 13.1 L42.9 10.1 L53.2 5.0 L64.8 10.9 L73.4 12.9 L83.6 7.3 L91.8 15.0 L107.3 13.8 L121.5 5.3 L132.7 10.0 L141.7 14.5 L153.4 6.5 L169.7 6.2 L187.1 9.5 L200.7 8.4 L213.5 6.9 L221.7 13.7 L231.9 12.8 L241.9 14.7 L259.0 12.5 L274.7 10.8 L290.1 6.2 L302.9 13.3 L312.8 14.2 L329.8 9.1 L341.4 9.5 L353.2 14.9 L365.0 5.3 L373.8 12.2 L391.9 10.0 L404.5 10.0 L401.2 25.6 L404.6 39.7 L400.8 54.0 L402.5 63.6 L402.5 81.0 L402.1 95.0 L399.7 103.9 L406.8 120.1 L405.8 131.8 L408.0 146.7 L403.1 164.4 L408.6 182.5 L407.8 196.5 L402.8 209.4 L407.8 219.7 L399.7 229.2 L406.7 245.4 L407.4 258.2 L401.6 266.6 L403.2 277.4 L399.7 287.0 L408.0 298.3 L406.5 316.3 L401.5 329.1 L404.3 346.9 L399.3 362.2 L407.4 372.2 L407.8 388.3 L403.3 402.4 L407.5 416.2 L404.3 427.2 L406.7 437.9 L405.9 445.8 L399.2 463.5 L405.4 477.5 L404.8 494.1 L403.1 504.6 L408.1 522.4 L399.9 531.6 L399.3 540.4 L400.4 552.8 L405.6 569.6 L404.4 578.7 L403.9 589.9 L400.7 600.0 L402.8 609.7 L404.5 624.9 L406.1 633.2 L406.7 650.1 L399.1 666.1 L404.0 665.6 L388.3 666.8 L373.1 667.5 L358.0 668.1 L349.8 668.9 L338.8 674.0 L327.9 670.0 L314.4 674.5 L305.5 671.0 L292.5 672.3 L274.6 668.1 L259.5 670.3 L245.9 665.6 L229.6 674.8 L218.1 668.2 L200.0 666.1 L191.4 665.7 L175.1 672.6 L162.7 671.2 L154.7 671.4 L142.3 670.2 L130.4 669.0 L120.3 665.5 L108.0 667.5 L92.8 673.2 L77.5 669.6 L67.3 668.9 L54.4 671.3 L36.6 665.9 L23.8 669.9 L8.5 673.9 L-7.4 671.3 L-12.3 670.0 L-12.0 653.3 L-16.5 638.4 L-15.1 621.0 L-10.8 606.8 L-9.1 589.0 L-15.9 581.1 L-15.1 570.1 L-13.5 560.8 L-16.0 552.2 L-11.6 534.6 L-17.9 521.9 L-12.0 504.2 L-15.6 494.3 L-12.2 479.8 L-9.5 469.3 L-16.5 458.1 L-17.5 441.5 L-17.0 426.7 L-16.2 412.6 L-9.6 400.9 L-14.6 388.2 L-16.2 374.0 L-15.2 364.4 L-17.1 353.8 L-18.7 336.0 L-9.7 319.8 L-18.8 304.6 L-18.6 291.6 L-12.0 277.5 L-18.9 267.2 L-18.1 253.7 L-14.5 242.7 L-15.3 225.6 L-11.1 216.4 L-13.7 200.1 L-17.1 191.7 L-13.5 179.8 L-11.0 169.6 L-9.7 153.0 L-18.8 136.1 L-18.2 122.2 L-11.5 105.0 L-17.1 89.3 L-10.8 80.9 L-12.8 66.8 L-11.0 54.1 L-16.3 42.8 L-16.0 31.3 L-10.1 17.0 Z" fill="#E2CFA0"/><clipPath id="mpc"><path d="M-14.0 6.6 L1.0 11.3 L13.8 7.2 L29.8 13.1 L42.9 10.1 L53.2 5.0 L64.8 10.9 L73.4 12.9 L83.6 7.3 L91.8 15.0 L107.3 13.8 L121.5 5.3 L132.7 10.0 L141.7 14.5 L153.4 6.5 L169.7 6.2 L187.1 9.5 L200.7 8.4 L213.5 6.9 L221.7 13.7 L231.9 12.8 L241.9 14.7 L259.0 12.5 L274.7 10.8 L290.1 6.2 L302.9 13.3 L312.8 14.2 L329.8 9.1 L341.4 9.5 L353.2 14.9 L365.0 5.3 L373.8 12.2 L391.9 10.0 L404.5 10.0 L401.2 25.6 L404.6 39.7 L400.8 54.0 L402.5 63.6 L402.5 81.0 L402.1 95.0 L399.7 103.9 L406.8 120.1 L405.8 131.8 L408.0 146.7 L403.1 164.4 L408.6 182.5 L407.8 196.5 L402.8 209.4 L407.8 219.7 L399.7 229.2 L406.7 245.4 L407.4 258.2 L401.6 266.6 L403.2 277.4 L399.7 287.0 L408.0 298.3 L406.5 316.3 L401.5 329.1 L404.3 346.9 L399.3 362.2 L407.4 372.2 L407.8 388.3 L403.3 402.4 L407.5 416.2 L404.3 427.2 L406.7 437.9 L405.9 445.8 L399.2 463.5 L405.4 477.5 L404.8 494.1 L403.1 504.6 L408.1 522.4 L399.9 531.6 L399.3 540.4 L400.4 552.8 L405.6 569.6 L404.4 578.7 L403.9 589.9 L400.7 600.0 L402.8 609.7 L404.5 624.9 L406.1 633.2 L406.7 650.1 L399.1 666.1 L404.0 665.6 L388.3 666.8 L373.1 667.5 L358.0 668.1 L349.8 668.9 L338.8 674.0 L327.9 670.0 L314.4 674.5 L305.5 671.0 L292.5 672.3 L274.6 668.1 L259.5 670.3 L245.9 665.6 L229.6 674.8 L218.1 668.2 L200.0 666.1 L191.4 665.7 L175.1 672.6 L162.7 671.2 L154.7 671.4 L142.3 670.2 L130.4 669.0 L120.3 665.5 L108.0 667.5 L92.8 673.2 L77.5 669.6 L67.3 668.9 L54.4 671.3 L36.6 665.9 L23.8 669.9 L8.5 673.9 L-7.4 671.3 L-12.3 670.0 L-12.0 653.3 L-16.5 638.4 L-15.1 621.0 L-10.8 606.8 L-9.1 589.0 L-15.9 581.1 L-15.1 570.1 L-13.5 560.8 L-16.0 552.2 L-11.6 534.6 L-17.9 521.9 L-12.0 504.2 L-15.6 494.3 L-12.2 479.8 L-9.5 469.3 L-16.5 458.1 L-17.5 441.5 L-17.0 426.7 L-16.2 412.6 L-9.6 400.9 L-14.6 388.2 L-16.2 374.0 L-15.2 364.4 L-17.1 353.8 L-18.7 336.0 L-9.7 319.8 L-18.8 304.6 L-18.6 291.6 L-12.0 277.5 L-18.9 267.2 L-18.1 253.7 L-14.5 242.7 L-15.3 225.6 L-11.1 216.4 L-13.7 200.1 L-17.1 191.7 L-13.5 179.8 L-11.0 169.6 L-9.7 153.0 L-18.8 136.1 L-18.2 122.2 L-11.5 105.0 L-17.1 89.3 L-10.8 80.9 L-12.8 66.8 L-11.0 54.1 L-16.3 42.8 L-16.0 31.3 L-10.1 17.0 Z"/></clipPath><rect x="-24" y="0" width="438" height="680" filter="url(#mp)" clip-path="url(#mpc)"/>
 <path d="M-10 90 q20 -26 38 0 q16 -30 34 0 q14 -22 30 0 M300 60 q18 -28 34 0 q16 -24 30 0 q12 -18 26 0 M-10 600 q22 -26 40 0 q14 -20 28 0 M330 610 q16 -26 32 0 q12 -18 26 0" fill="none" stroke="#6A4A26" stroke-width="1.6" stroke-linecap="round"/>
 <path d="M-12 300 q30 20 10 60 q-16 40 12 80 M402 240 q-26 30 -8 70 q14 40 -10 90" fill="none" stroke="#5E8E96" stroke-width="2.4" stroke-linecap="round" opacity=".8"/>
 <text x="4" y="150" font-family="Noto Serif SC,serif" font-weight="900" font-size="15" fill="#6A4A26" opacity=".75">山</text><text x="372" y="130" font-family="Noto Serif SC,serif" font-weight="900" font-size="15" fill="#6A4A26" opacity=".75">岭</text><text x="6" y="470" font-family="Noto Serif SC,serif" font-weight="900" font-size="15" fill="#3E6E78" opacity=".8">水</text></g></svg>
